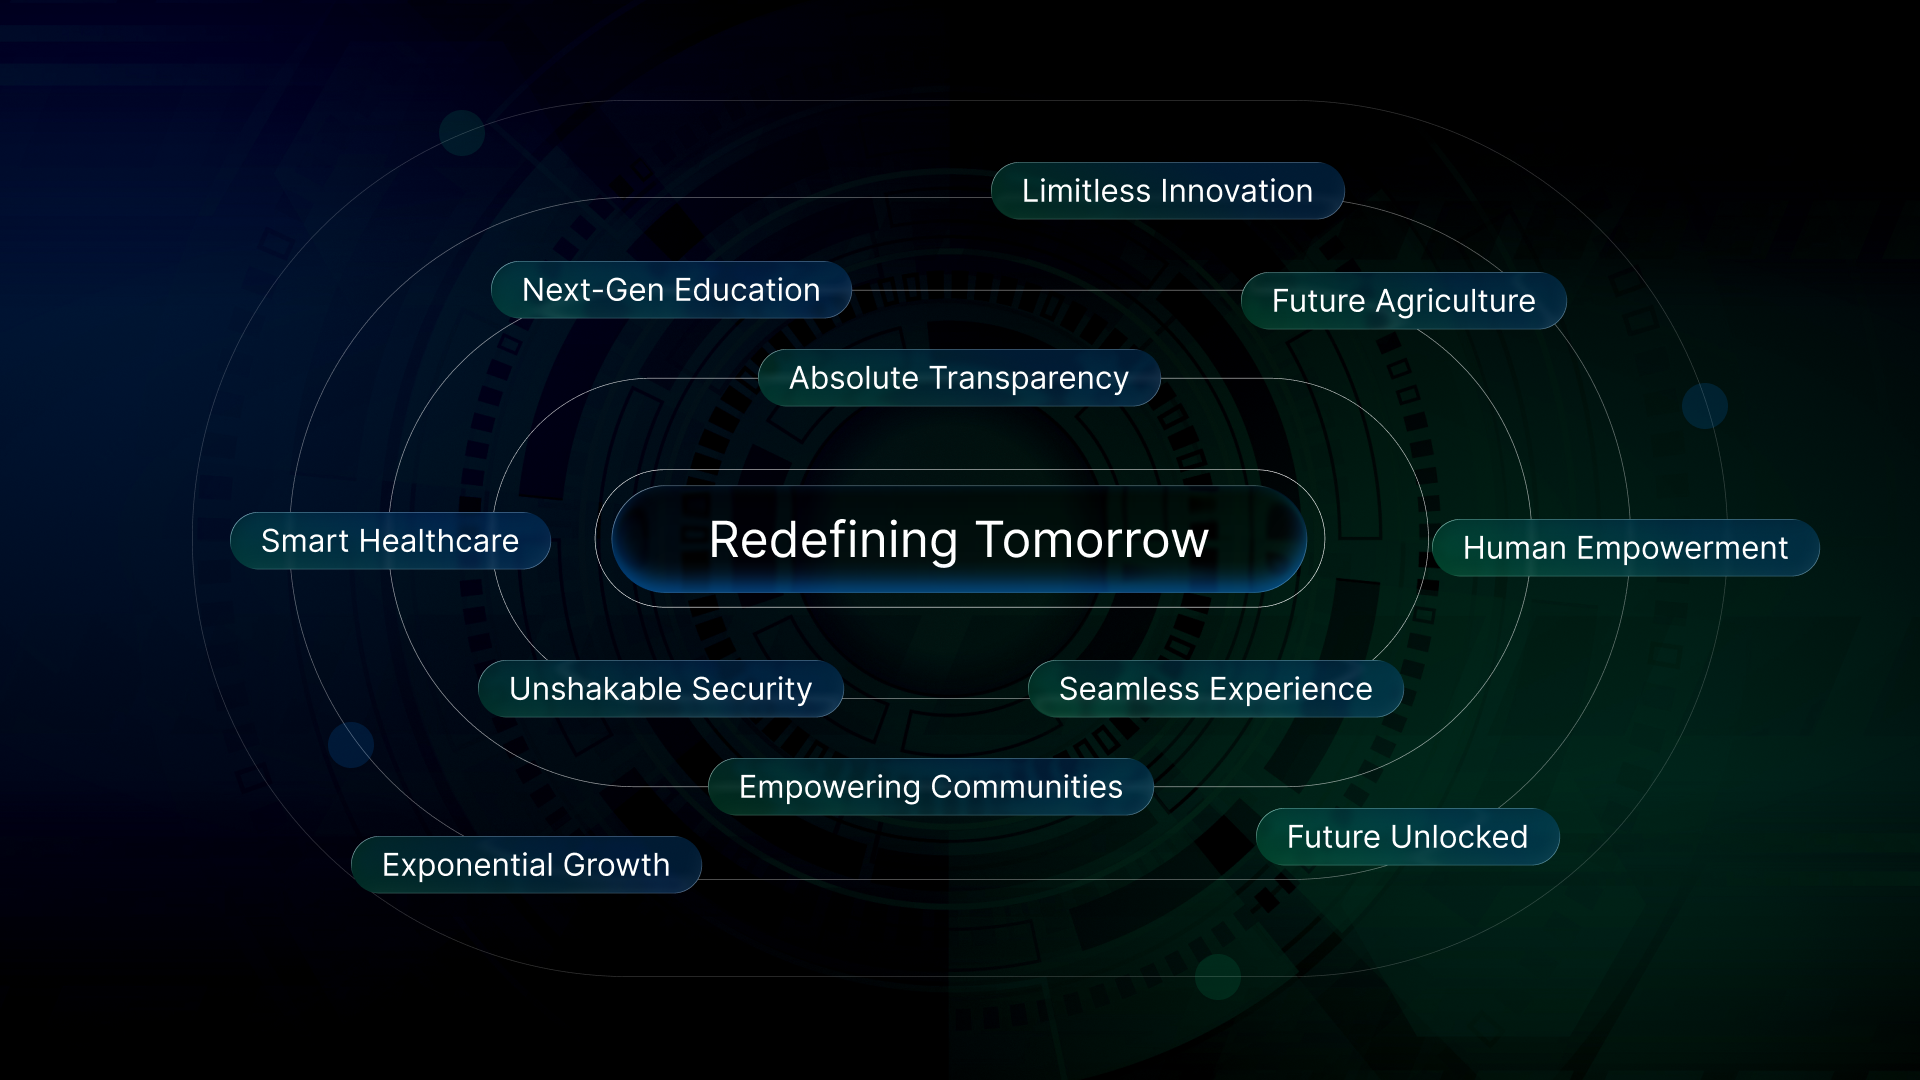
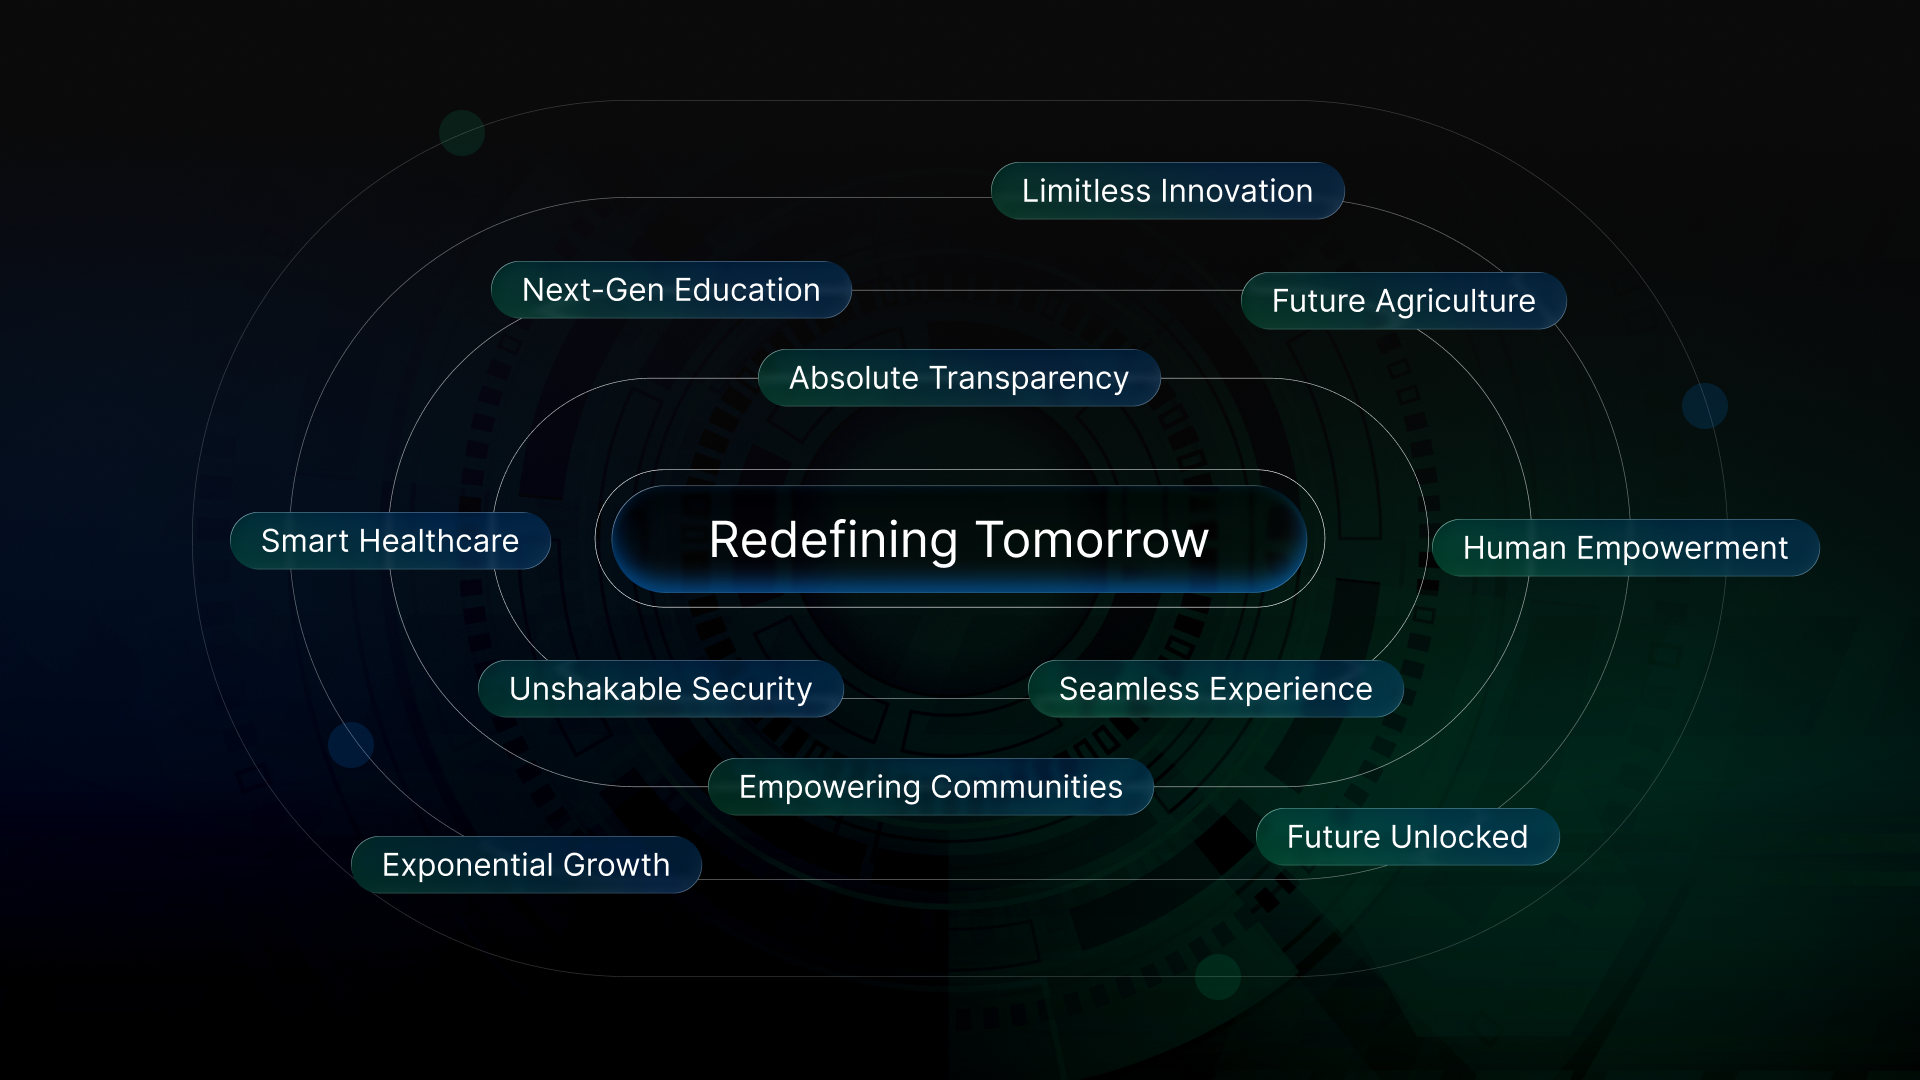
bug fixes

Changed region(s): [[0.0, 0.0, 0.2188, 0.3361]]

diff --git a/src/app/about/page.tsx b/src/app/about/page.tsx
@@ -43,7 +43,7 @@ export default function AboutPage() {
             Learn more | Grow more | Spread more
           </div> */}
         <div className="flex flex-row gap-10 justify-between items-center p-14">
-          <div className="text-2xl w-180 text-justify">
+          <div className="text-2xl w-180 text-justify text-gray-300">
             At TTOFL, we believe technology and innovation are not just tools,
             they are pathways to progress. Our mission is to create platforms
             that solve real-world challenges, empower graduates, support
@@ -128,7 +128,7 @@ export default function AboutPage() {
         </section>
 
         <div className="font-mono mt-9 mb-3 text-4xl md:text-5xl lg:text-7xl font-extrabold text-center text-white z-10">
-          Why Choose Us?
+          What Drives Us?
         </div>
         <div className="py-10">
           <div className="flex flex-col h-screen gap-16">
@@ -217,7 +217,7 @@ export default function AboutPage() {
           </div>
           <div className="py-16 px-6 md:px-20">
             <div className="font-mono text-4xl md:text-5xl lg:text-7xl font-extrabold text-center text-white z-10">
-              Why Partner with Us
+              Why Partner with Us?
             </div>
             <div className="flex flex-row gap-10 justify-between items-center mt-6 p-14">
               <img

diff --git a/src/app/contact/page.tsx b/src/app/contact/page.tsx
@@ -34,19 +34,19 @@ export default function ContactPage() {
             <Input
               type="Name"
               placeholder="Name"
-              className="bg-neutral-800 h-12 w-140"
+              className="bg-neutral-800 h-12 w-140 border-gray-500"
             />
 
             <Input
               type="email"
               placeholder="Email"
-              className="bg-neutral-800 h-12 w-140"
+              className="bg-neutral-800 h-12 w-140 border-gray-500"
             />
             <Textarea
               placeholder="Type your message here."
-              className="bg-neutral-800 h-30 w-140"
+              className="bg-neutral-800 h-30 w-140 border-gray-500"
             />
-            <InteractiveHoverButton className="w-140 rounded-xl h-10 bg-emerald-400/90 border-none text-white">
+            <InteractiveHoverButton className="w-140 rounded-xl h-10 bg-emerald-400/90 border-none text-white ">
               Get In Touch
             </InteractiveHoverButton>
           </div>

diff --git a/src/app/products/page.tsx b/src/app/products/page.tsx
@@ -1,7 +1,9 @@
-import { Spotlight } from "@/components/ui/Spotlight";
+import GlassmorphNavBar from "@/components/ui/glassmorph-navbar";
 
 export default function ProductsPage() {
-  <div className="relative w-full min-h-screen overflow-hidden bg-neutral-950 text-white">
-    wowgrfdassssssssssssssssssssssssss
-  </div>;
+  return (
+    <div className="relative w-full min-h-screen overflow-hidden bg-neutral-950 text-white">
+      <GlassmorphNavBar />
+    </div>
+  );
 }
